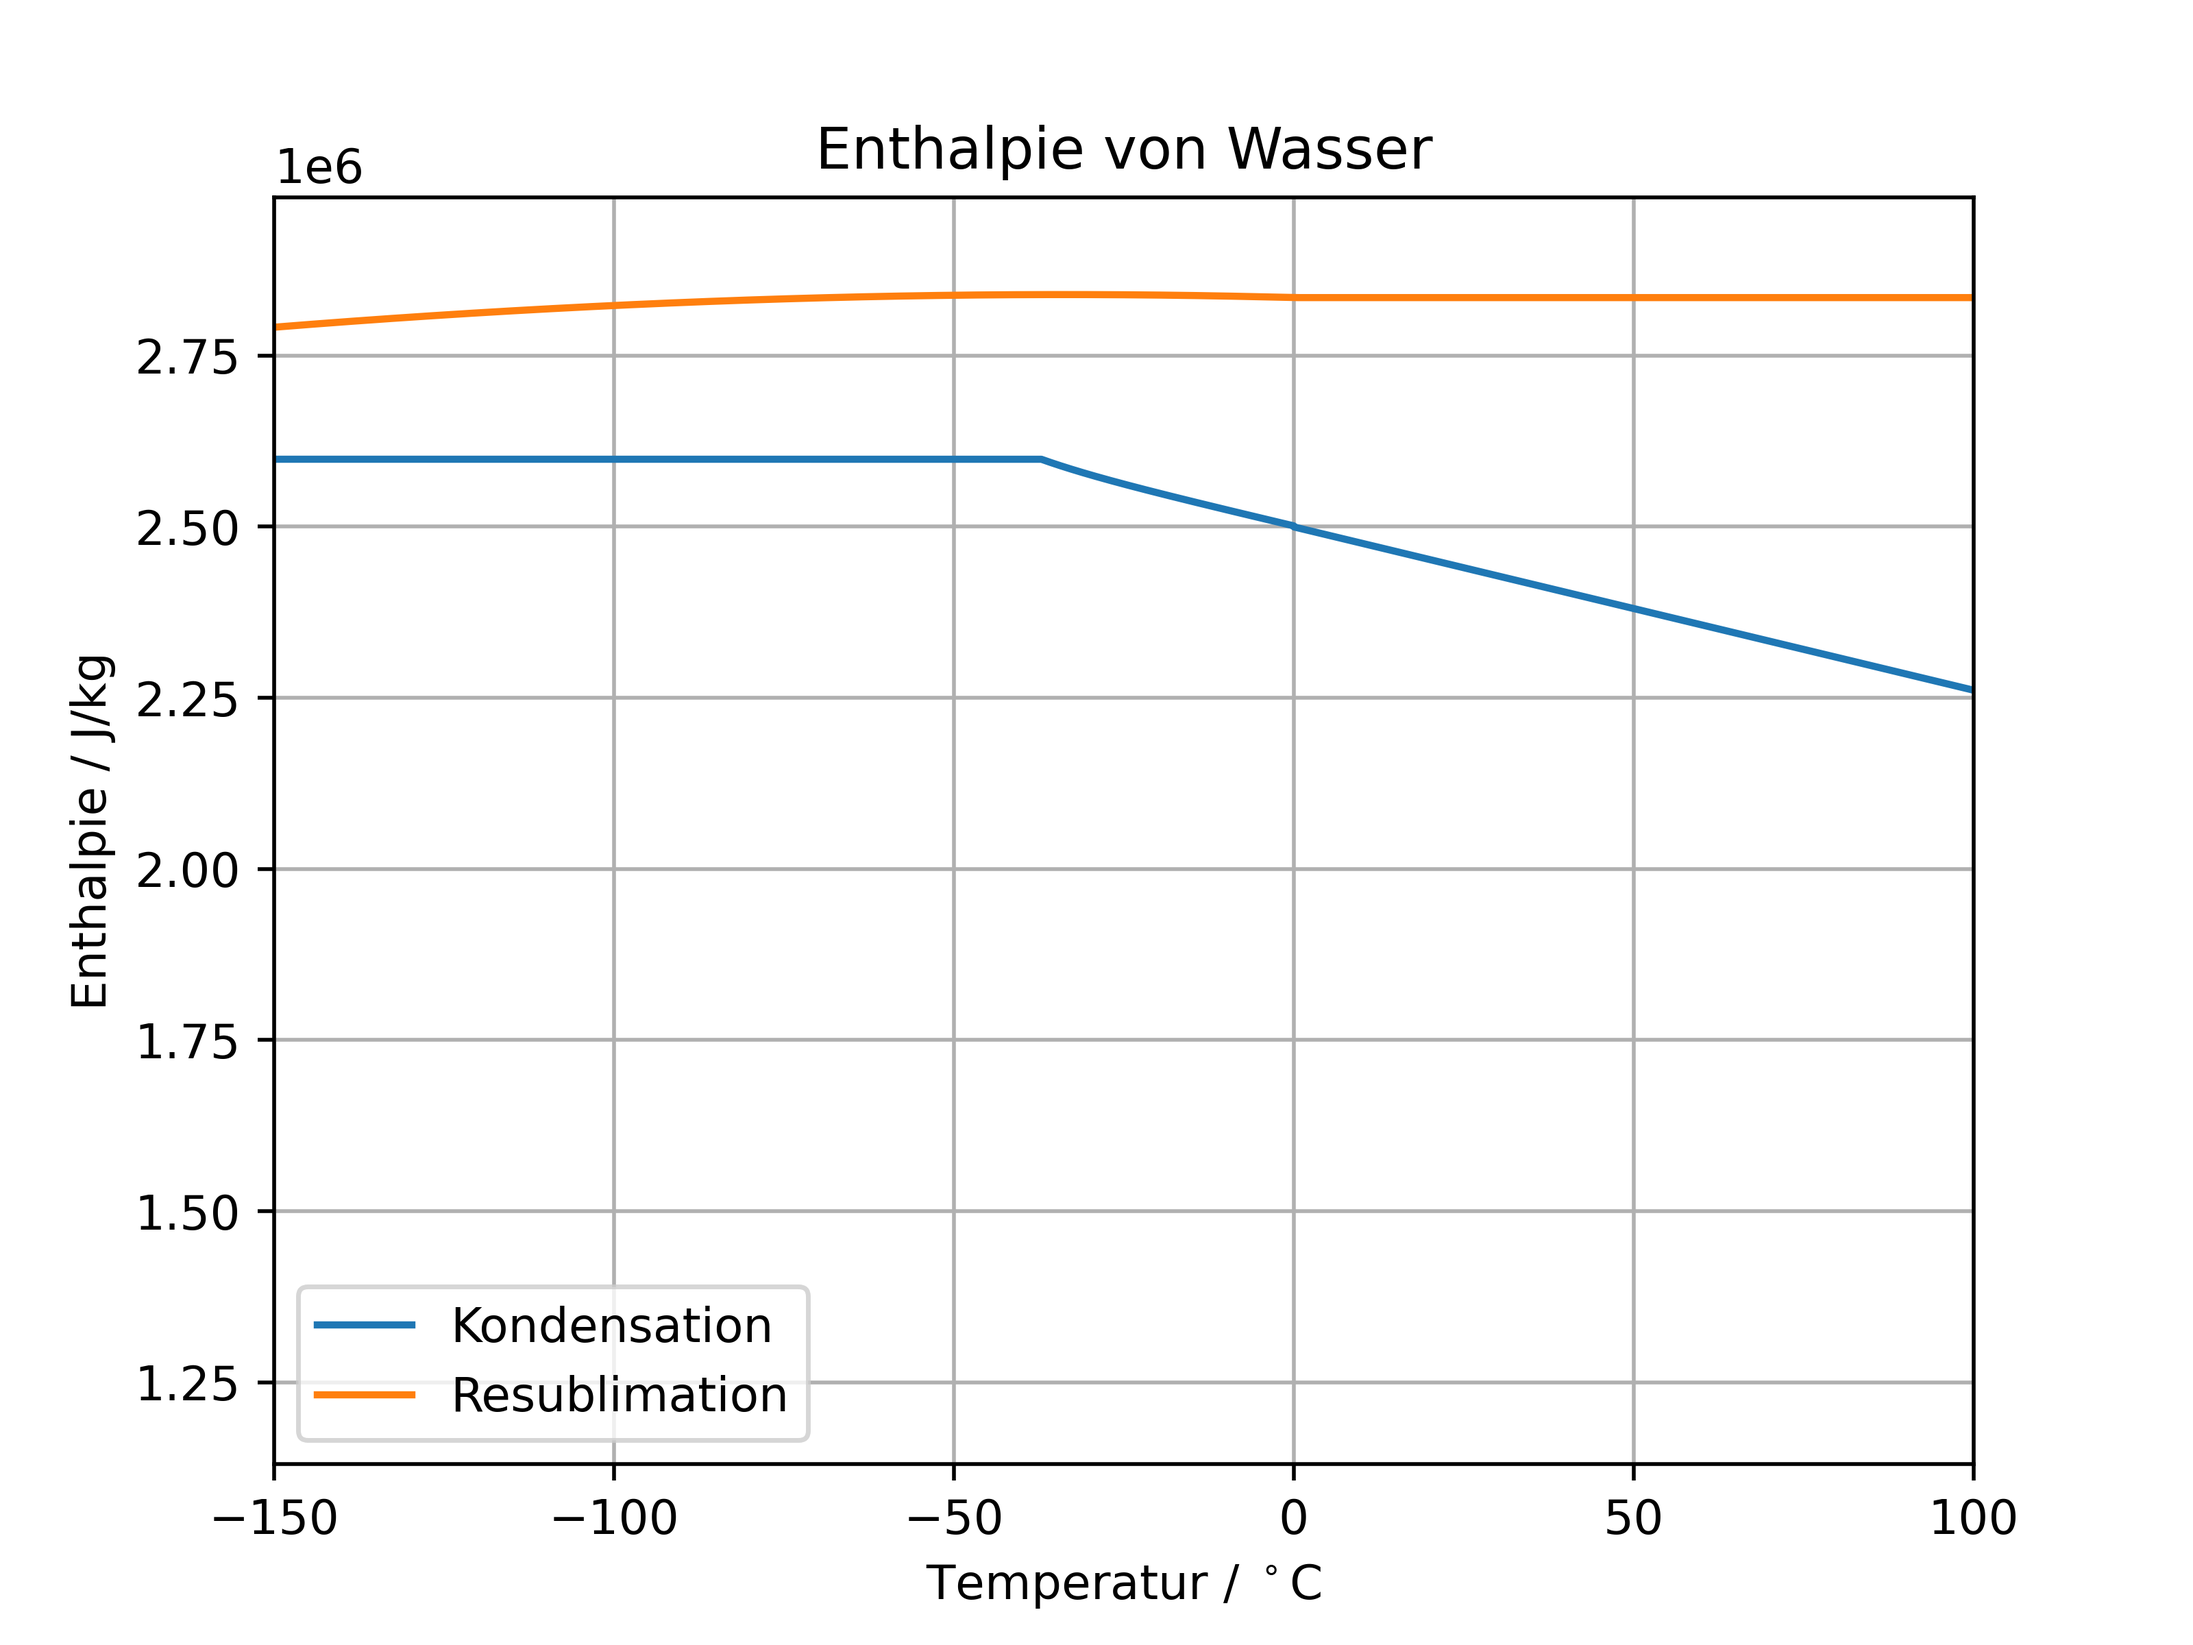
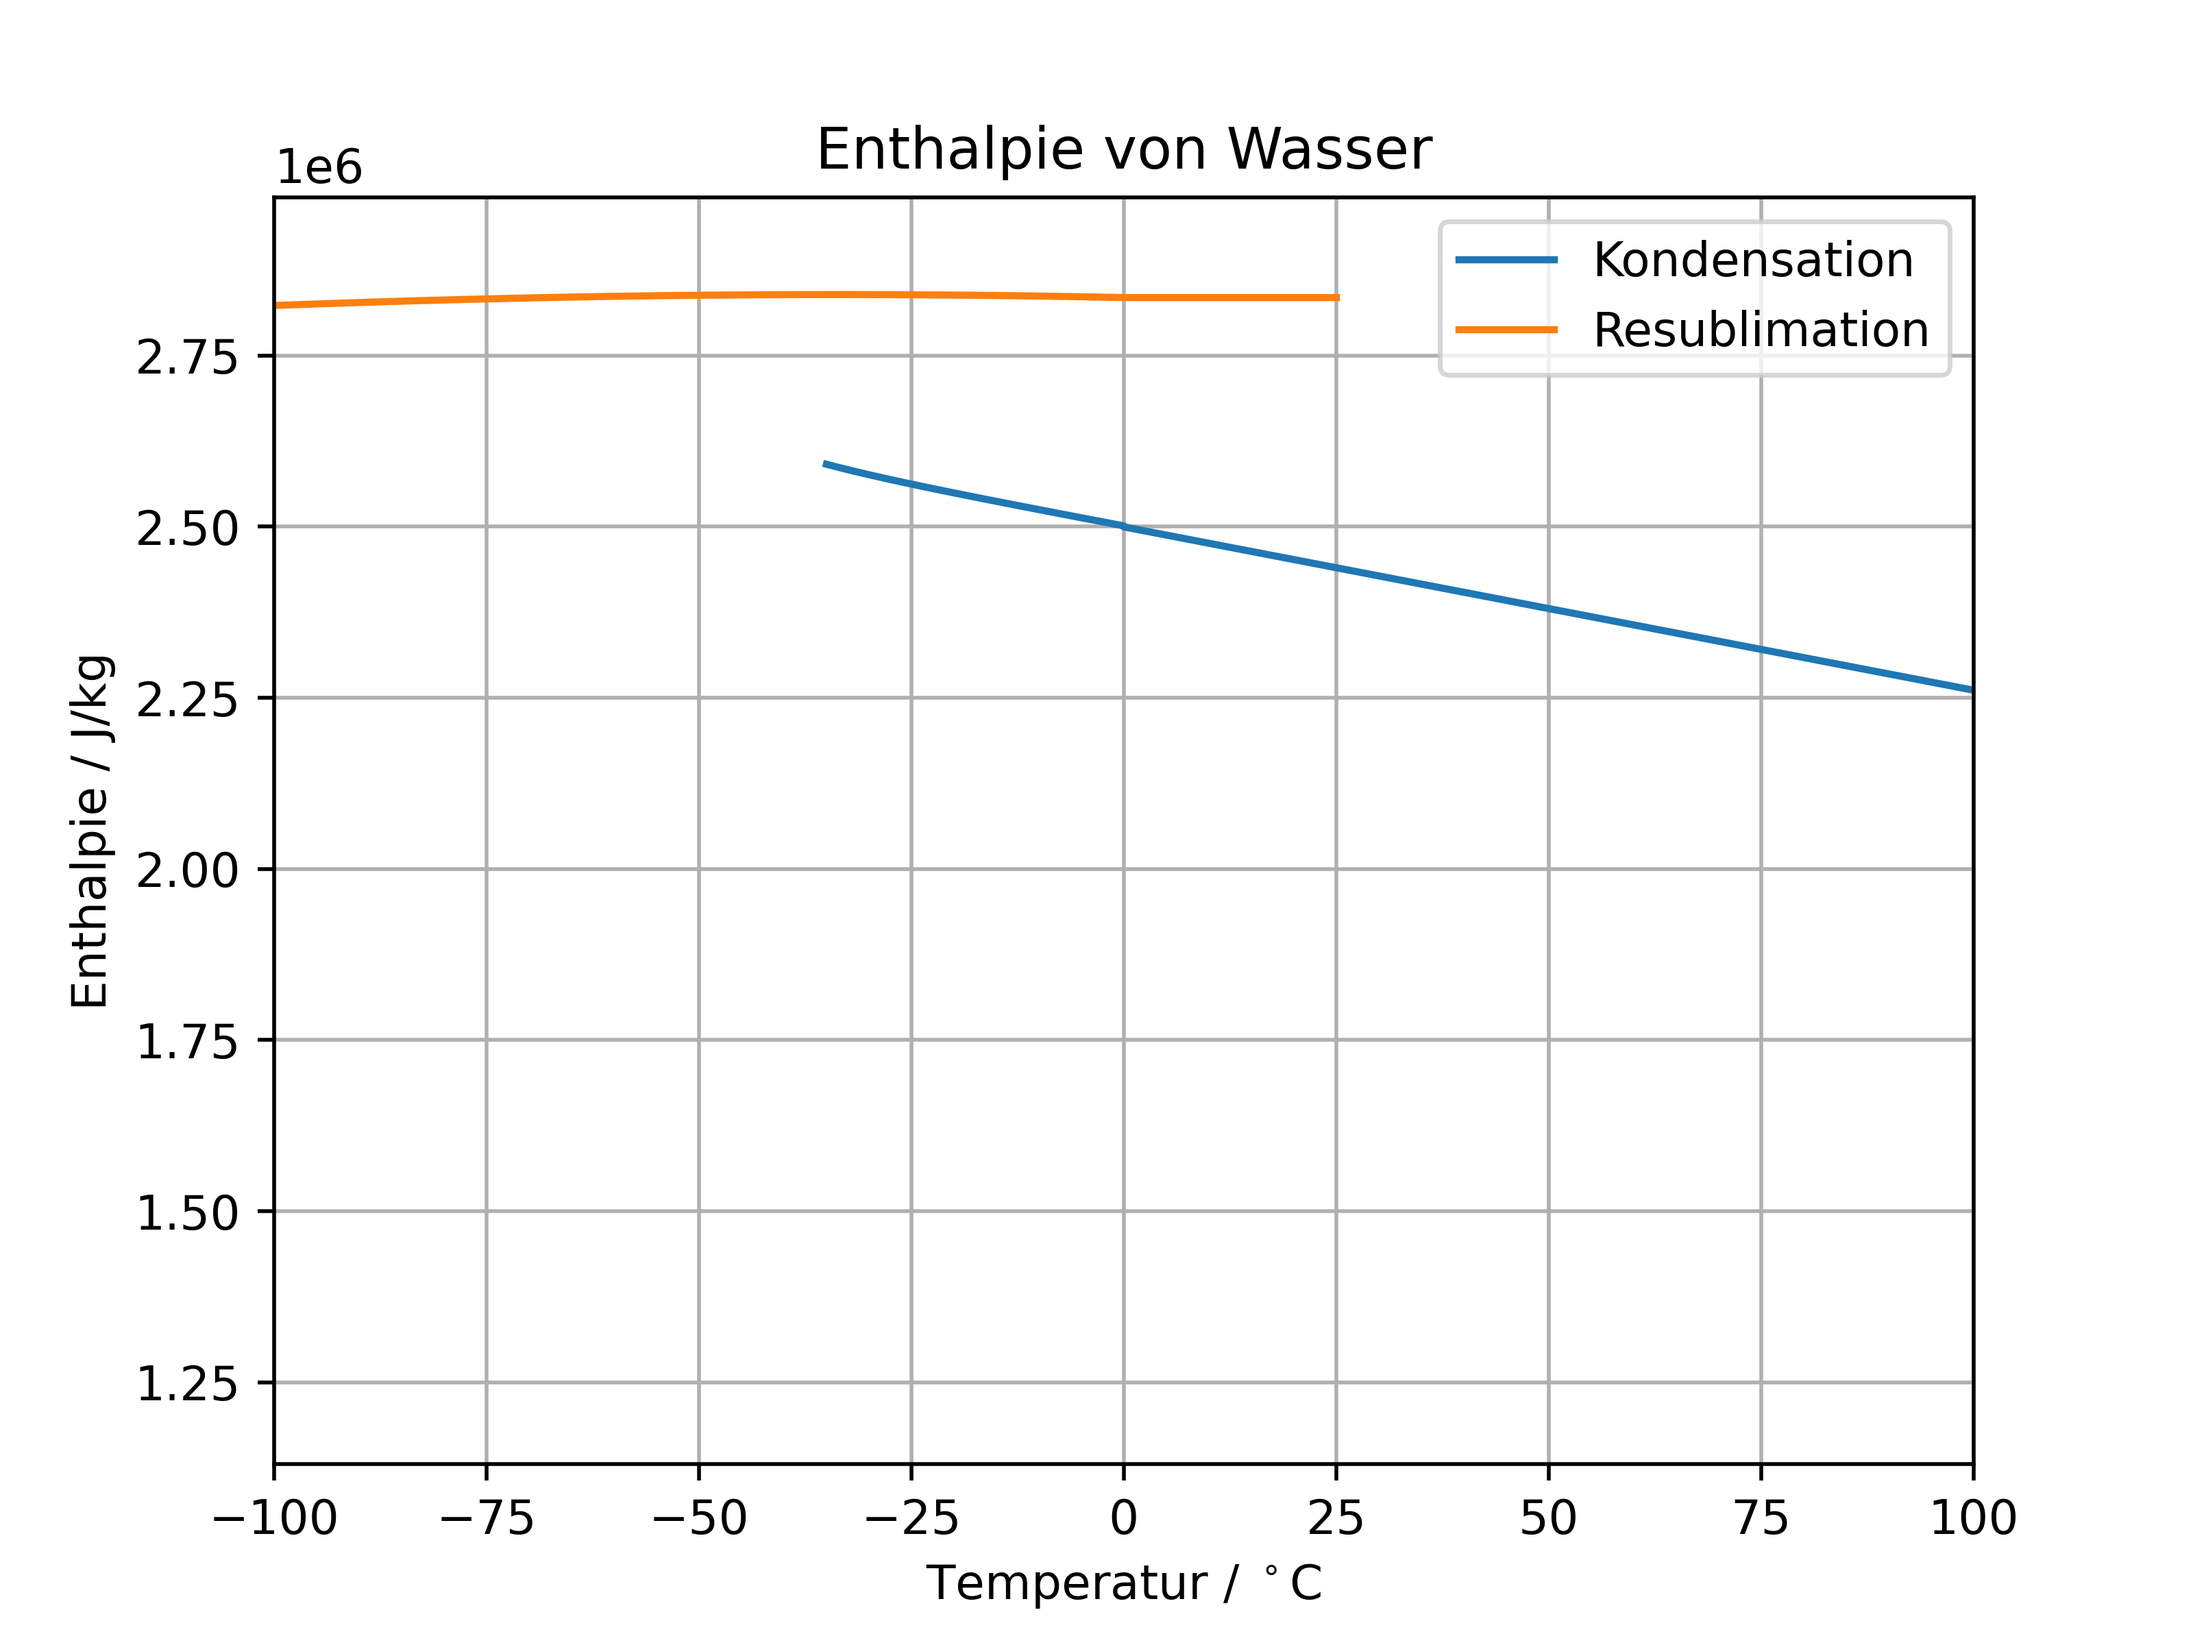
enthalpy plot continued

diff --git a/enthalpy.py b/enthalpy.py
@@ -50,13 +50,13 @@ def enthalpy_sublimation(temperature):
 	
 	return enthalpy_sublimation
 
-temp_c_evap_vector = np.linspace(-150, 100, 10000)
+temp_c_evap_vector = np.linspace(-35, 100, 10000)
 enthap_evap_vector = np.zeros([len(temp_c_evap_vector)])
 
 for ji in range(len(temp_c_evap_vector)):
 	enthap_evap_vector[ji] = enthalpy_evaporation(temp_c_evap_vector[ji] + t_0)
 
-temp_c_sub_vector = np.linspace(-150, 1000, 10000)
+temp_c_sub_vector = np.linspace(-100, 25, 10000)
 enthap_sub_vector = np.zeros([len(temp_c_evap_vector)])
 
 for ji in range(len(temp_c_evap_vector)):
